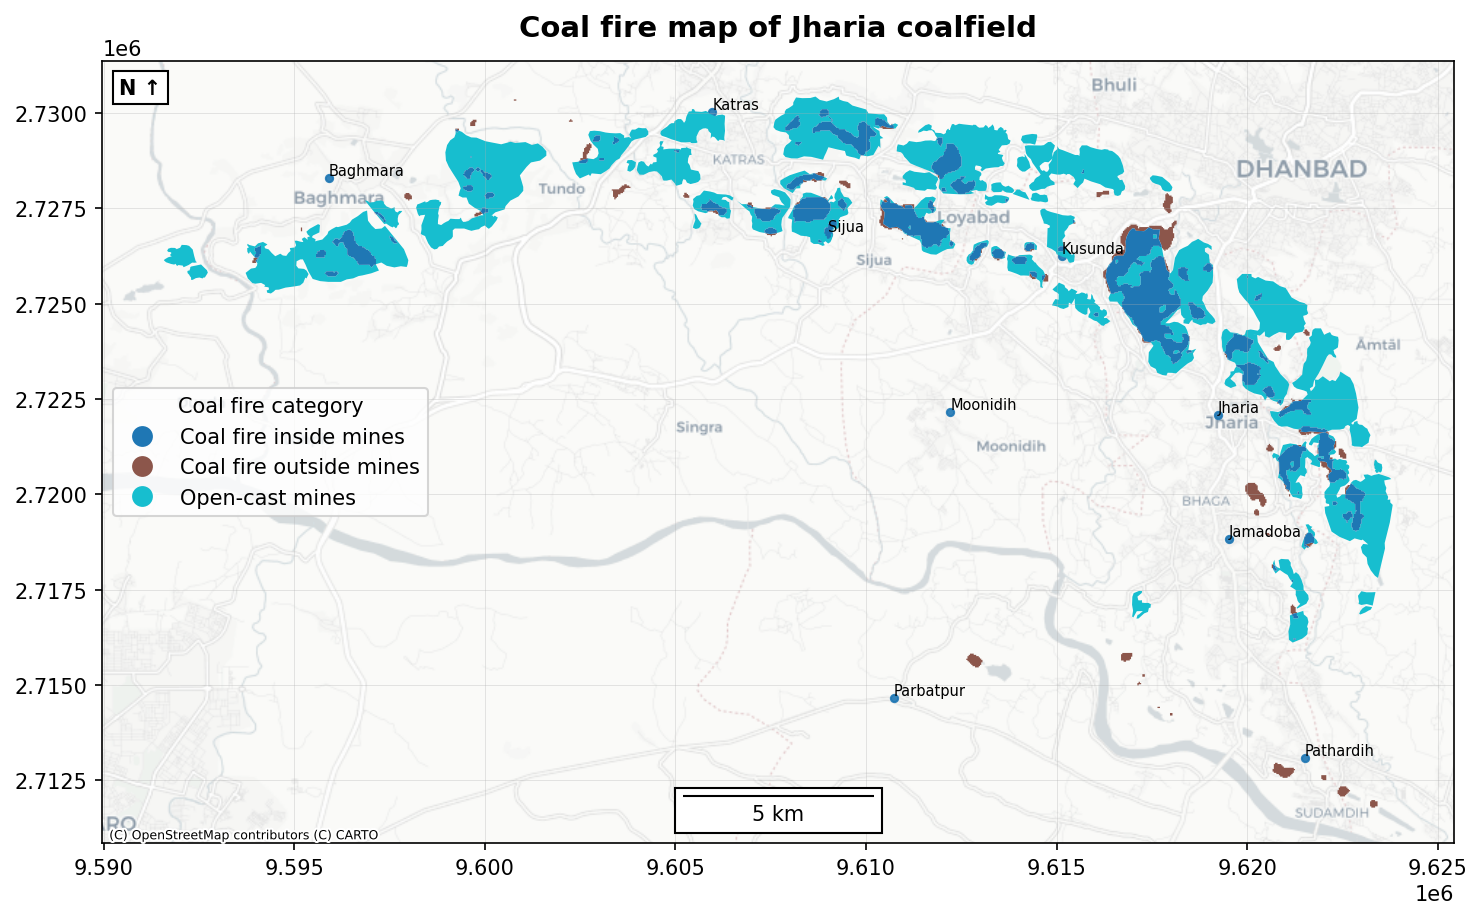
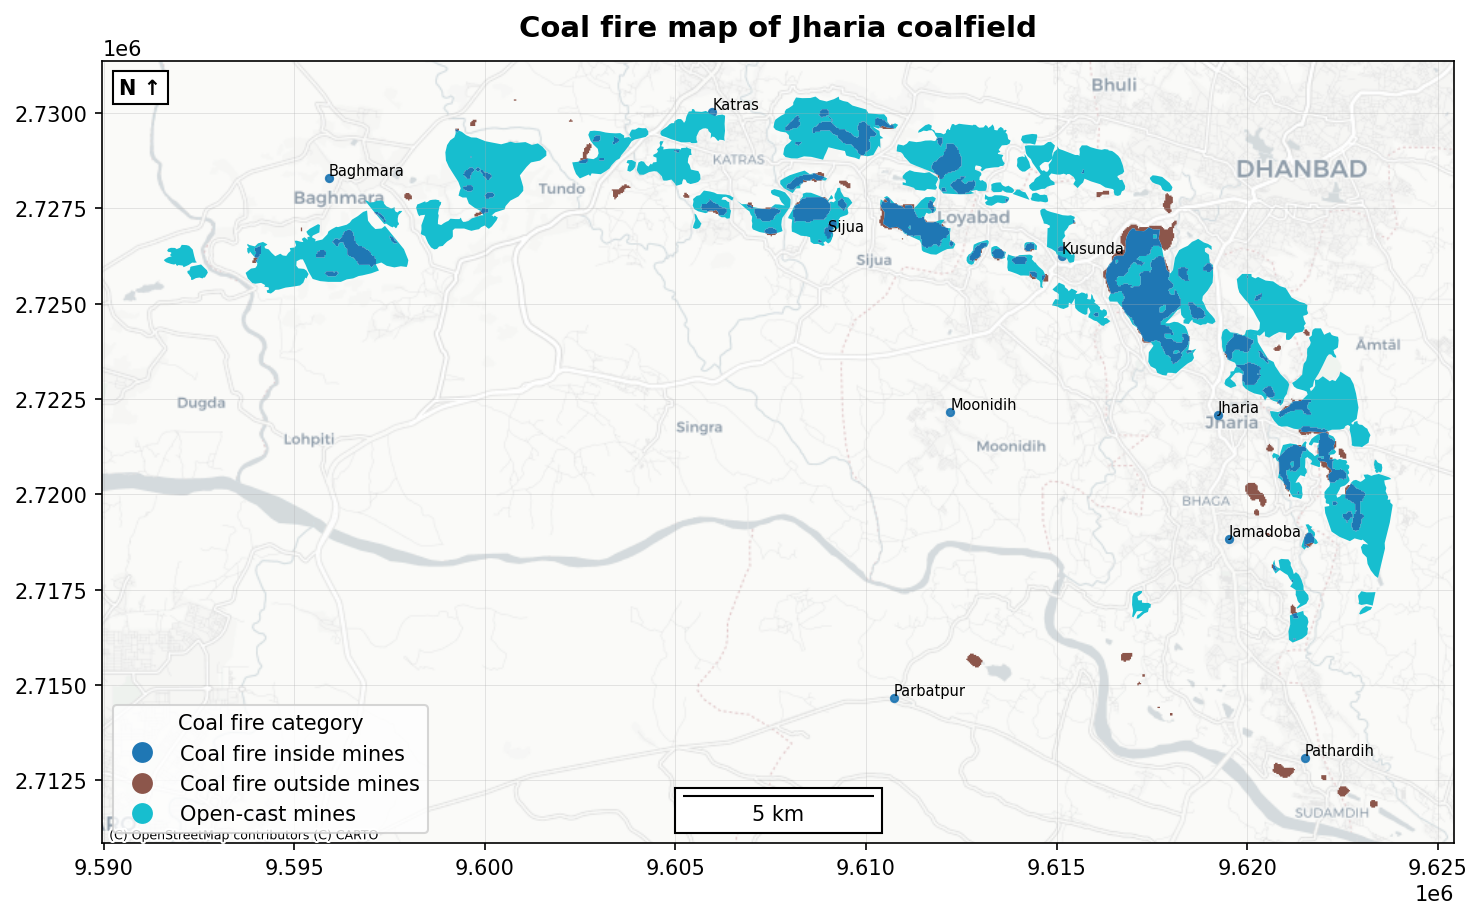
working

Changed region(s): [[0.0621, 0.7617, 0.2794, 0.914], [0.0621, 0.4266, 0.2794, 0.5789]]

diff --git a/Study_area_mapper/generic_mapper.py b/Study_area_mapper/generic_mapper.py
@@ -35,6 +35,23 @@ with open('basemaps.json', 'r') as file:
 BASEMAP_KEYS = data['basemap_keys']
 POS_MAP = data['pos_map']
 
+# Map human-friendly loc strings to the integer codes expected by Anchored* artists
+_LOC_STR2INT = {
+    "upper right": 1,
+    "upper left": 2,
+    "lower left": 3,
+    "lower right": 4,
+    "right": 5,
+    "center left": 6,
+    "center right": 7,
+    "lower center": 8,
+    "upper center": 9,
+    "center": 10,
+}
+def _loc_to_int(loc_str: str) -> int:
+    return _LOC_STR2INT.get(loc_str, 1)  # default to "upper right"
+
+
 # ---------------- I/O helpers (with "-->") ----------------
 def ask_yes_no(prompt: str) -> bool:
     while True:
@@ -325,13 +342,17 @@ class StudyAreaMapper:
         seen = set()
         uniq = [(h, l) for h, l in zip(handles, labels) if l and not (l in seen or seen.add(l))]
         if uniq:
-            ax.legend([h for h,_ in uniq], [l for _,l in uniq], loc= "lower left", frameon=True)  # final placement below
-            # (legend position is controlled by legend_loc passed to make_map)
-            ax.get_legend().set_bbox_to_anchor(None)
-            plt.setp(ax.get_legend(), loc=legend_loc)
+            # Create the legend directly at the requested location
+            ax.legend(
+                [h for h, _ in uniq],
+                [l for _, l in uniq],
+                loc=legend_loc,
+                frameon=True
+            )
 
-        # north + scalebar
-        north = AnchoredText("N ↑", loc=north_loc, pad=0.3, prop=dict(size=10, weight='bold'), frameon=True)
+        # north + scalebar (convert string locs to int codes)
+        north = AnchoredText("N ↑", loc=_loc_to_int(north_loc), pad=0.3,
+                             prop=dict(size=10, weight='bold'), frameon=True)
         ax.add_artist(north)
         try:
             x0, x1 = ax.get_xlim()
@@ -340,7 +361,8 @@ class StudyAreaMapper:
             length = min(candidates, key=lambda c: abs(c - approx_len))
             bar = AnchoredSizeBar(ax.transData, length,
                                   f"{int(length)} m" if length < 1000 else f"{int(length/1000)} km",
-                                  loc=scalebar_loc, pad=0.4, borderpad=0.5, sep=4, frameon=True)
+                                  loc=_loc_to_int(scalebar_loc), pad=0.4,
+                                  borderpad=0.5, sep=4, frameon=True)
             ax.add_artist(bar)
         except Exception:
             pass
@@ -470,14 +492,6 @@ def main():
             else:
                 print("\nAvailable fields:")
                 field = choose_from_list("Choose field to categorize by", sorted(cols))
-                # try:
-                #     uniq_vals = sorted(map(str, gdf_tmp[field].dropna().unique().tolist()))
-                #     for val in uniq_vals[:50]:
-                #         print(f"  - {val}")
-                #     if len(uniq_vals) > 50:
-                #         print(f"  ... and {len(uniq_vals) - 50} more.")
-                # except Exception:
-                #     pass
                 legend = ask_nonempty("Legend title for this categorized layer (type 'None' to hide)")
                 legend = None if legend.lower() == "none" else legend
                 lbl_col = None

diff --git a/Study_area_mapper/readme.md b/Study_area_mapper/readme.md
@@ -43,6 +43,6 @@ If you want to provide a specific color instead of using generic wording, such a
 
 4. <b>Chat with the agent and generate initial map: </b> The agent will ask specific question to the user about what to perform. Then, it generates an initial map. 
 
-5. <b>Modify the map:<b> Open the generate file `` The agent will be waiting for your further instruction about required modification from the initial image.
+5. <b>Modify the map:</b> Open the generate file `` The agent will be waiting for your further instruction about required modification from the initial image.
 
-6. <b> Finalize
+6. <b> Finalize:</b>: Finalize the 
